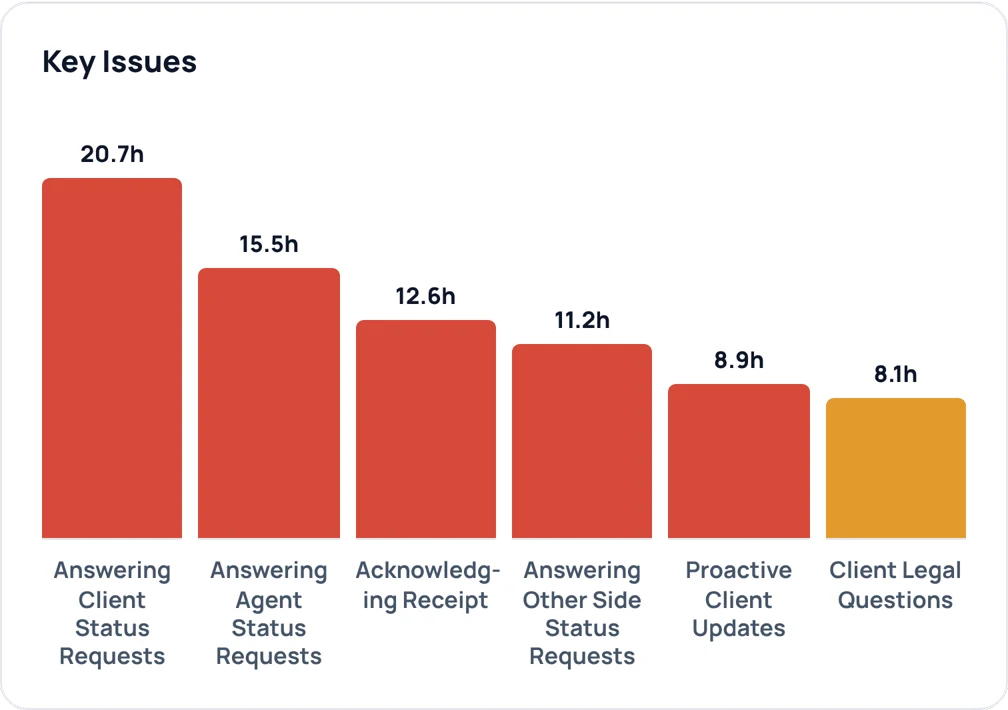
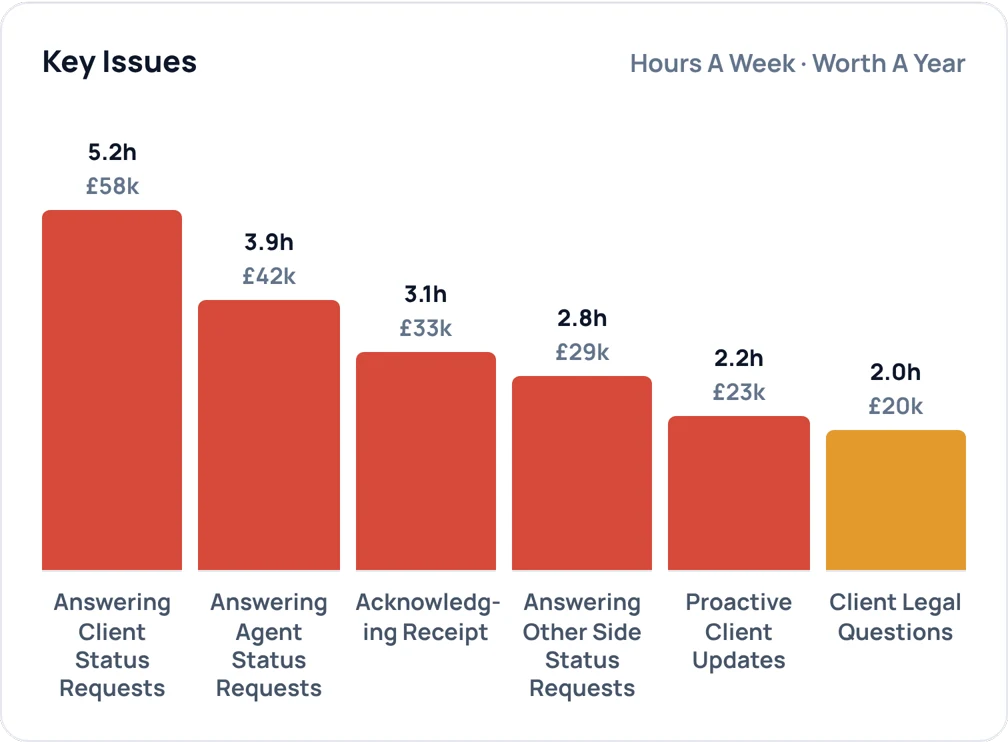
Measurement: per conveyancer, with what each issue is worth a year
A Typical Week and Key Issues show one conveyancer's week (the firm's total
over the people scanned). Each Key Issue carries what it is worth a year on
its own, and A Typical Week's headline is doubling the cases, £360k, where
the red and amber are half the week or more. lib/value.ts holds the basis
the landing page's £1,314 shares: 30 completions a month at £1,000, 220 days
of 7.5 hours; saving s minutes a case holds 99,000 / (275 - s) cases, so
each minute saved is worth more than the last. Landing images recaptured.

Claude-Session: https://claude.ai/code/session_01ENxd8iCZjhhxKm8BJpVMKX

diff --git a/app/conveyi/page.tsx b/app/conveyi/page.tsx
@@ -2,6 +2,7 @@ import { REFERRALS_ENABLED } from '@/lib/flags';
 import type { Metadata } from 'next';
 import { ctaHref, ROUTES, Cta, NavHeader, SiteFooter } from '../_components/shared';
 import { Vsl } from './Vsl';
+import { MINUTE_PER_CASE_VALUE, VALUE_BASIS } from '@/lib/value';
 
 export const metadata: Metadata = {
   title: 'CONVEYi — Double the cases without double the work | Case Lightning',
@@ -189,9 +190,9 @@ export default function Page() {
               <p className="mx-auto max-w-xs text-xl leading-snug text-paper/80 [text-wrap:balance] md:max-w-none md:text-2xl">Every minute saved per case is worth</p>
               <p className="mt-3 font-serif text-6xl font-bold leading-none tracking-tight text-[#9B7BFF] md:text-8xl">
                 <span className="group relative inline-block">
-                  <span tabIndex={0} aria-describedby="minute-basis" className="inline-block cursor-help underline decoration-[#9B7BFF]/50 decoration-dotted decoration-4 underline-offset-[10px] outline-none focus-visible:decoration-solid md:-translate-x-[3px]">£1,314</span>
+                  <span tabIndex={0} aria-describedby="minute-basis" className="inline-block cursor-help underline decoration-[#9B7BFF]/50 decoration-dotted decoration-4 underline-offset-[10px] outline-none focus-visible:decoration-solid md:-translate-x-[3px]">£{MINUTE_PER_CASE_VALUE.toLocaleString('en-GB')}</span>
                   <span id="minute-basis" role="tooltip" className="pointer-events-none absolute bottom-full left-1/2 z-10 mb-4 w-72 -translate-x-1/2 rounded-xl bg-paper px-4 py-3 text-left font-sans text-sm font-medium leading-snug tracking-normal text-ink opacity-0 shadow-card transition group-hover:opacity-100 group-focus-within:opacity-100">
-                    Based on 30 completions a month and £1,000 in average fees.
+                    Based on {VALUE_BASIS.completionsPerMonth} completions a month and £{VALUE_BASIS.averageFee.toLocaleString('en-GB')} in average fees.
                     <span className="absolute left-1/2 top-full -ml-2 border-8 border-transparent border-t-paper" aria-hidden="true" />
                   </span>
                 </span>
@@ -206,12 +207,12 @@ export default function Page() {
       <section className="bg-paper-soft px-6 py-24 md:py-32">
         <div className="mx-auto max-w-6xl">
           <SectionHead title="See how much spare capacity you can win back on a demo" />
-          {/* The two cards from the measurement, as they are in the app: side by side on a laptop, one above the other on a phone, where Key Issues shows its top six so the labels stay readable. */}
+          {/* The two cards from the measurement, as they are in the app: side by side on a laptop, one above the other on a phone, where Key Issues shows its top six so the labels stay readable. Per conveyancer, valued on lib/value.ts. */}
           <div className="mx-auto mt-16 grid max-w-md items-start gap-5 md:max-w-5xl md:grid-cols-[1fr_2fr] md:gap-6">
-            <img src="/product/app-measure-week.webp" width={696} height={754} alt="A typical week across the firm: 56% red, 18% amber, 26% green." className="block h-auto w-full [filter:drop-shadow(0_14px_24px_rgba(21,16,31,0.12))]" />
+            <img src="/product/app-measure-week.webp" width={696} height={754} alt="A typical week per conveyancer: 56% red, 18% amber, 26% green; red and amber enough to double the cases, worth £360k a year." className="block h-auto w-full [filter:drop-shadow(0_14px_24px_rgba(21,16,31,0.12))]" />
             <picture>
               <source media="(min-width: 768px)" srcSet="/product/app-measure-issues-card.webp" width={1392} height={754} />
-              <img src="/product/app-measure-issues-narrow.webp" width={1008} height={710} alt="Key Issues: the hours a week each kind of work takes, from answering client status requests down." className="block h-auto w-full [filter:drop-shadow(0_14px_24px_rgba(21,16,31,0.12))]" />
+              <img src="/product/app-measure-issues-narrow.webp" width={1008} height={742} alt="Key Issues: the hours a week each kind of work takes a conveyancer, and what each is worth a year, from answering client status requests (5.2 hours, £58k) down." className="block h-auto w-full [filter:drop-shadow(0_14px_24px_rgba(21,16,31,0.12))]" />
             </picture>
           </div>
           <div className="mt-12 flex justify-center">

diff --git a/app/conveyi/(app)/integrations/measure/page.tsx b/app/conveyi/(app)/integrations/measure/page.tsx
@@ -9,6 +9,7 @@ import { ArrowLeft, Check, ChevronRight, Loader, X } from '@/app/shared/icons';
 import { MIN_SENT_PER_WEEK, type Measurement } from '@/lib/server/epa/measure';
 import type { ScanCounts } from '@/lib/server/workload/scan';
 import { workingDaysBetween } from '@/lib/server/engine/working-days';
+import { DOUBLING_VALUE, MINUTES_PER_CASE, minutesPerCase, pounds, VALUE_BASIS, yearValueOfWeeklyHours } from '@/lib/value';
 
 /**
  * The onboarding measurement (docs/epa-categories.md): each conveyancer scans two months of their own inbox and InTouch once,
@@ -63,6 +64,7 @@ const CSS = `
 .ms-pg{display:flex;gap:8px;align-items:center;justify-content:flex-end;margin-top:10px;font-size:13px;color:#475569;font-weight:700}
 .ms-pg button{border:0;background:#f1f5f9;border-radius:8px;padding:6px 11px;font:inherit;font-weight:700;cursor:pointer}
 .ms-warn{display:flex;align-items:center;gap:10px;margin-top:14px;background:#fef9c3;border:1px solid #fde68a;color:#713f12;border-radius:10px;padding:9px 12px;font-size:13px;font-weight:700}
+.ms-worth{display:block;color:#0f172a;font-size:18px;font-weight:800;margin:2px 0 10px}
 .ms-warn button{margin-left:auto;border:0;background:none;color:#713f12;cursor:pointer;display:inline-flex;padding:2px}
 @media (max-width:1100px){.ms-steps{grid-template-columns:1fr}}
 `;
@@ -266,14 +268,30 @@ export default function MeasurePage() {
               <button type="button" aria-label="Close" onClick={() => setHideThin(true)}><X size={16} /></button>
             </div>
           )}
-          {m && (
-            <>
+          {m && (() => {
+            // One conveyancer's week, the firm's averaged: the measurement adds everyone's together.
+            const each = (h: number) => h / m.people;
+            const hours = { red: each(m.hours.red), amber: each(m.hours.amber), green: each(m.hours.green) };
+            const worth = (h: number) => pounds(yearValueOfWeeklyHours(h));
+            // The headline: doubling the cases where the red and amber are half the week or more, else what they are worth.
+            const waste = hours.red + hours.amber;
+            const headline = minutesPerCase(waste) >= MINUTES_PER_CASE / 2
+              ? { label: 'Double The Cases', value: DOUBLING_VALUE }
+              : { label: 'Red And Amber', value: yearValueOfWeeklyHours(waste) };
+            const basis = (
+              <span className="tv-tipped" tabIndex={0}>
+                <span className="tv-tip" role="tooltip"><b>Worth A Year</b>Each on its own. Based on {VALUE_BASIS.completionsPerMonth} completions a month and £{VALUE_BASIS.averageFee.toLocaleString('en-GB')} in average fees.</span>
+                Hours A Week · Worth A Year
+              </span>
+            );
+            return (
               <div className="tv-top">
-                <RagCard title="A Typical Week" hours={m.hours} share={m.share} unseen={{ hours: m.hours.unseen, share: m.share.unseen }} foot={<>{m.people} {m.people === 1 ? 'Conveyancer' : 'Conveyancers'}<br />{m.contractedHours}h Week</>} />
-                <ParetoCard lines={m.lines} />
+                <RagCard title="A Typical Week" right="Per Conveyancer" hours={hours} share={m.share} unseen={{ hours: each(m.hours.unseen), share: m.share.unseen }}
+                  foot={<>{headline.label}<b className="ms-worth">{pounds(headline.value)} A Year</b>{m.people} {m.people === 1 ? 'Conveyancer' : 'Conveyancers'}<br />{m.contractedHours}h Week</>} />
+                <ParetoCard lines={m.lines.map((l) => ({ ...l, hours: each(l.hours) }))} right={basis} value={worth} />
               </div>
-            </>
-          )}
+            );
+          })()}
         </>
       )}
     </div>

diff --git a/app/shared/epa/TimeView.tsx b/app/shared/epa/TimeView.tsx
@@ -40,6 +40,8 @@ const CSS = `
 .tv-pbar{display:flex;flex-direction:column;justify-content:flex-end;height:212px;border-bottom:1px solid #e6e8ee}
 .tv-pbar i{display:block;border-radius:4px 4px 0 0;min-height:2px}
 .tv-pbar small{display:block;text-align:center;font-size:11.5px;font-weight:800;color:#0f172a;margin-bottom:4px}
+.tv-pbar small em{display:block;font-style:normal;font-weight:700;color:#64748b}
+.tv-pareto.v .tv-pbar{height:228px}
 .tv-plabel{font-size:11.5px;font-weight:700;color:#475569;text-align:center;line-height:1.25;margin-top:8px;min-height:44px}
 .tv-pcol:hover i{filter:brightness(.92)}
 .tv-pcol:hover .tv-plabel{color:#0f172a}
@@ -49,6 +51,8 @@ const CSS = `
 .tv-tipped:hover .tv-tip,.tv-tipped:focus-within .tv-tip{display:block}
 .tv-legend .tv-tip{bottom:calc(100% + 6px);left:0}
 .tv-legend .tv-tipped{cursor:default}
+.tv-cardhead .tv-tip{top:calc(100% + 6px);right:0}
+.tv-cardhead .tv-tipped{cursor:help}
 .tv-actions{margin-top:16px}
 .tv-row{display:grid;grid-template-columns:330px 64px 64px 72px minmax(0,1fr);gap:14px;align-items:center;padding:10px 0;border-bottom:1px solid #f1f3f7;font-size:13.5px}
 .tv-row:last-child{border-bottom:0}
@@ -182,19 +186,19 @@ export function RagCard({ title: heading, right, hours, share, foot, unseen }: {
   );
 }
 
-/** The Pareto of red and amber: the biggest few as bars, labels written out. */
-export function ParetoCard({ lines }: { lines: ParetoBar[] }) {
+/** The Pareto of red and amber: the biggest few as bars, labels written out; with `value`, what each is worth under its hours. */
+export function ParetoCard({ lines, right, value }: { lines: ParetoBar[]; right?: ReactNode; value?: (hours: number) => string }) {
   const bars = lines.slice(0, PARETO_BARS);
   const top = Math.max(0.0001, ...bars.map((b) => b.hours));
   return (
     <section className="tv-card">
-      <div className="tv-cardhead"><h2>Key Issues</h2></div>
+      <div className="tv-cardhead"><h2>Key Issues</h2>{right && <span className="r">{right}</span>}</div>
       {!bars.length ? <p className="tv-none">No red or amber time recorded yet.</p> : (
-        <div className="tv-pareto">
+        <div className={`tv-pareto${value ? ' v' : ''}`}>
           {bars.map((b) => (
             <div key={b.kind} className="tv-pcol">
               <div className="tv-pbar">
-                <small>{hrs(b.hours)}</small>
+                <small>{hrs(b.hours)}{value && <em>{value(b.hours)}</em>}</small>
                 <i className={`tv-${b.rag}`} style={{ height: `${(b.hours / top) * 180}px` }} />
               </div>
               <div className="tv-plabel">{SHORT[b.kind] ?? b.label}</div>

diff --git a/lib/value.ts b/lib/value.ts
@@ -1,0 +1,32 @@
+/**
+ * What a conveyancer's time is worth: the basis the landing page's "every minute saved per case" figure and the
+ * Measurement page's values share. A conveyancer works 220 days of 7.5 hours and completes 30 cases a month at £1,000
+ * in fees each: 99,000 minutes over 360 cases is 275 minutes a case. Save s minutes a case and the same year holds
+ * 99,000 / (275 − s) cases. The first minute is worth £1,314; each one after is worth more, and saving half of every
+ * case doubles the cases: £360,000.
+ */
+export const VALUE_BASIS = { workingDays: 220, hoursPerDay: 7.5, completionsPerMonth: 30, averageFee: 1000 } as const;
+
+const yearMinutes = VALUE_BASIS.workingDays * VALUE_BASIS.hoursPerDay * 60;
+const casesPerYear = VALUE_BASIS.completionsPerMonth * 12;
+/** 275. */
+export const MINUTES_PER_CASE = yearMinutes / casesPerYear;
+
+/** The extra fees a year from one conveyancer saving this many minutes on every case. */
+export const yearValueOfMinutesSaved = (minutes: number) =>
+  minutes <= 0 ? 0 : (yearMinutes / Math.max(1, MINUTES_PER_CASE - minutes) - casesPerYear) * VALUE_BASIS.averageFee;
+
+/** The first minute saved on every case, for one conveyancer for a year, in pounds: £1,314. */
+export const MINUTE_PER_CASE_VALUE = Math.round(yearValueOfMinutesSaved(1));
+
+/** Double the cases: £360,000 a conveyancer a year. */
+export const DOUBLING_VALUE = yearValueOfMinutesSaved(MINUTES_PER_CASE / 2);
+
+/** Hours a week of one conveyancer's time, as minutes on each case. */
+export const minutesPerCase = (weeklyHours: number) => (weeklyHours * 60 * (VALUE_BASIS.workingDays / 5)) / casesPerYear;
+
+/** Hours a week of one conveyancer's time saved, on their own, worth a year. */
+export const yearValueOfWeeklyHours = (hours: number) => yearValueOfMinutesSaved(minutesPerCase(hours));
+
+/** £50k, £9,600. */
+export const pounds = (x: number) => (x >= 10_000 ? `£${Math.round(x / 1000)}k` : `£${Math.round(x).toLocaleString('en-GB')}`);

diff --git a/tests/unit/marketing/value.test.ts b/tests/unit/marketing/value.test.ts
@@ -1,0 +1,28 @@
+/** What a conveyancer's time is worth (lib/value.ts): the landing page's £1,314 and the Measurement page's values. */
+import { test } from 'node:test';
+import assert from 'node:assert/strict';
+import { DOUBLING_VALUE, MINUTE_PER_CASE_VALUE, minutesPerCase, pounds, yearValueOfMinutesSaved, yearValueOfWeeklyHours } from '../../../lib/value';
+
+test('the first minute saved on every case is worth £1,314 a year', () => {
+  assert.equal(MINUTE_PER_CASE_VALUE, 1314);
+});
+
+test('each minute after is worth more than the one before', () => {
+  const second = yearValueOfMinutesSaved(2) - yearValueOfMinutesSaved(1);
+  assert.ok(second > MINUTE_PER_CASE_VALUE);
+});
+
+test('saving half of every case doubles the cases: £360k', () => {
+  assert.equal(Math.round(DOUBLING_VALUE), 360_000);
+});
+
+test('an hour a week is 7⅓ minutes on each of 360 cases', () => {
+  assert.equal(Math.round(minutesPerCase(1) * 300), 2200);
+  assert.equal(Math.round(yearValueOfWeeklyHours(1)), Math.round(yearValueOfMinutesSaved(22 / 3)));
+  assert.equal(yearValueOfWeeklyHours(0), 0);
+});
+
+test('pounds: thousands from £10k, whole pounds below', () => {
+  assert.equal(pounds(57_633), '£58k');
+  assert.equal(pounds(9_636.4), '£9,636');
+});

diff --git a/docs/epa-categories.md b/docs/epa-categories.md
@@ -66,7 +66,7 @@ So the headline is "**at most** 25% of your week moves cases on": an upper bound
 - **The scan** (`lib/server/workload/scan.ts`): Sent Items, then the Inbox, then InTouch when it is connected. Up to 15,000 messages a person, enough for 200–300 received and 60–80 sent a day. Classified on the classify model (Haiku), 15 emails a call, the first 900 characters of what was written, nothing stored but the label. It now tells resends from first sends, and process questions from legal ones (prompt `wl-2`).
 - **InTouch:** the person's 60 most recently updated cases (InTouch's fee earner is them, by email or name) that were live or touched in the window, completed ones included. Every document and note the firm filed on them in the window, with when it was filed, goes on the person's timeline beside their email (lib/server/epa/measure.ts), classed by what it is: reports on title, enquiries, contracts and transfers are legal work; completion statements, SDLT and Land Registry papers are paperwork; anything else filed is filing. Email records are left out (InTouch's own Exchange filing may have put them there); client uploads are not our time. If no case has the person as fee earner, the page says so and names the fee earners InTouch does have. InTouch's tasks carry no completion date, so they are not read. Who filed an item is not in InTouch's data: items are credited to the case's fee earner. Field names to confirm on a live account. "See What It Read" lists every InTouch document and note it read, with its case.
 - **The figures** (`lib/server/epa/measure.ts`): the same model as the live page. Every sent email and every document or note the firm filed in InTouch is an action at a time; the time before it is that kind of work, capped by what the work takes (routine: three times its typical minutes, never under 15; legal work: three hours). Outlook's draft-to-send time is writing. Every received email is reading time of its kind when it arrived. So **green is measured**: the time before legal emails and before the legal documents the firm filed (reports on title, enquiries, contracts, transfers). What nothing accounts for is **Not Seen** (grey): calls, meetings, files read with nothing sent after. It is shown, never counted as green.
-- **The page:** a strip of figures (your scan's window; sent, received and set aside as a day's average over its working days; InTouch cases and filings, the firm's average reply time), then A Typical Week and Key Issues (the Pareto). No actions: this is the measurement, not the action page.
+- **The page:** a strip of figures (your scan's window; sent, received and set aside as a day's average over its working days; InTouch cases and filings, the firm's average reply time), then A Typical Week and Key Issues (the Pareto), both per conveyancer (the firm's total over the people scanned), with what each is worth a year on its own (`lib/value.ts`: 30 completions a month at £1,000, 220 days of 7.5 hours, so 275 minutes a case; saving s minutes a case holds 99,000 / (275 − s) cases, so the first minute is £1,314 and each after is worth more). A Typical Week's headline is doubling the cases, £360k, where the red and amber are half the week or more; else what the red and amber are worth. No actions: this is the measurement, not the action page.
 - **Average reply time:** each case email received, to the next email the person sent on that conversation, everyone's averaged, in clock time (what the person waiting goes through). Two people waiting at once are two waits. Never-answered emails, and answers more than 14 days later (a new subject on an old thread), are left out.
 - **See What It Read** lists what the scan kept (its subject and who with, as names and domains: migration 128), never reading the mailbox again. Scans before migration 128 show no subjects.
 - **No checking:** nobody is asked to mark the model's labels; the scan finishes as complete. The old Baseline page, and its sample check, are retired (it redirects to Measurement).
